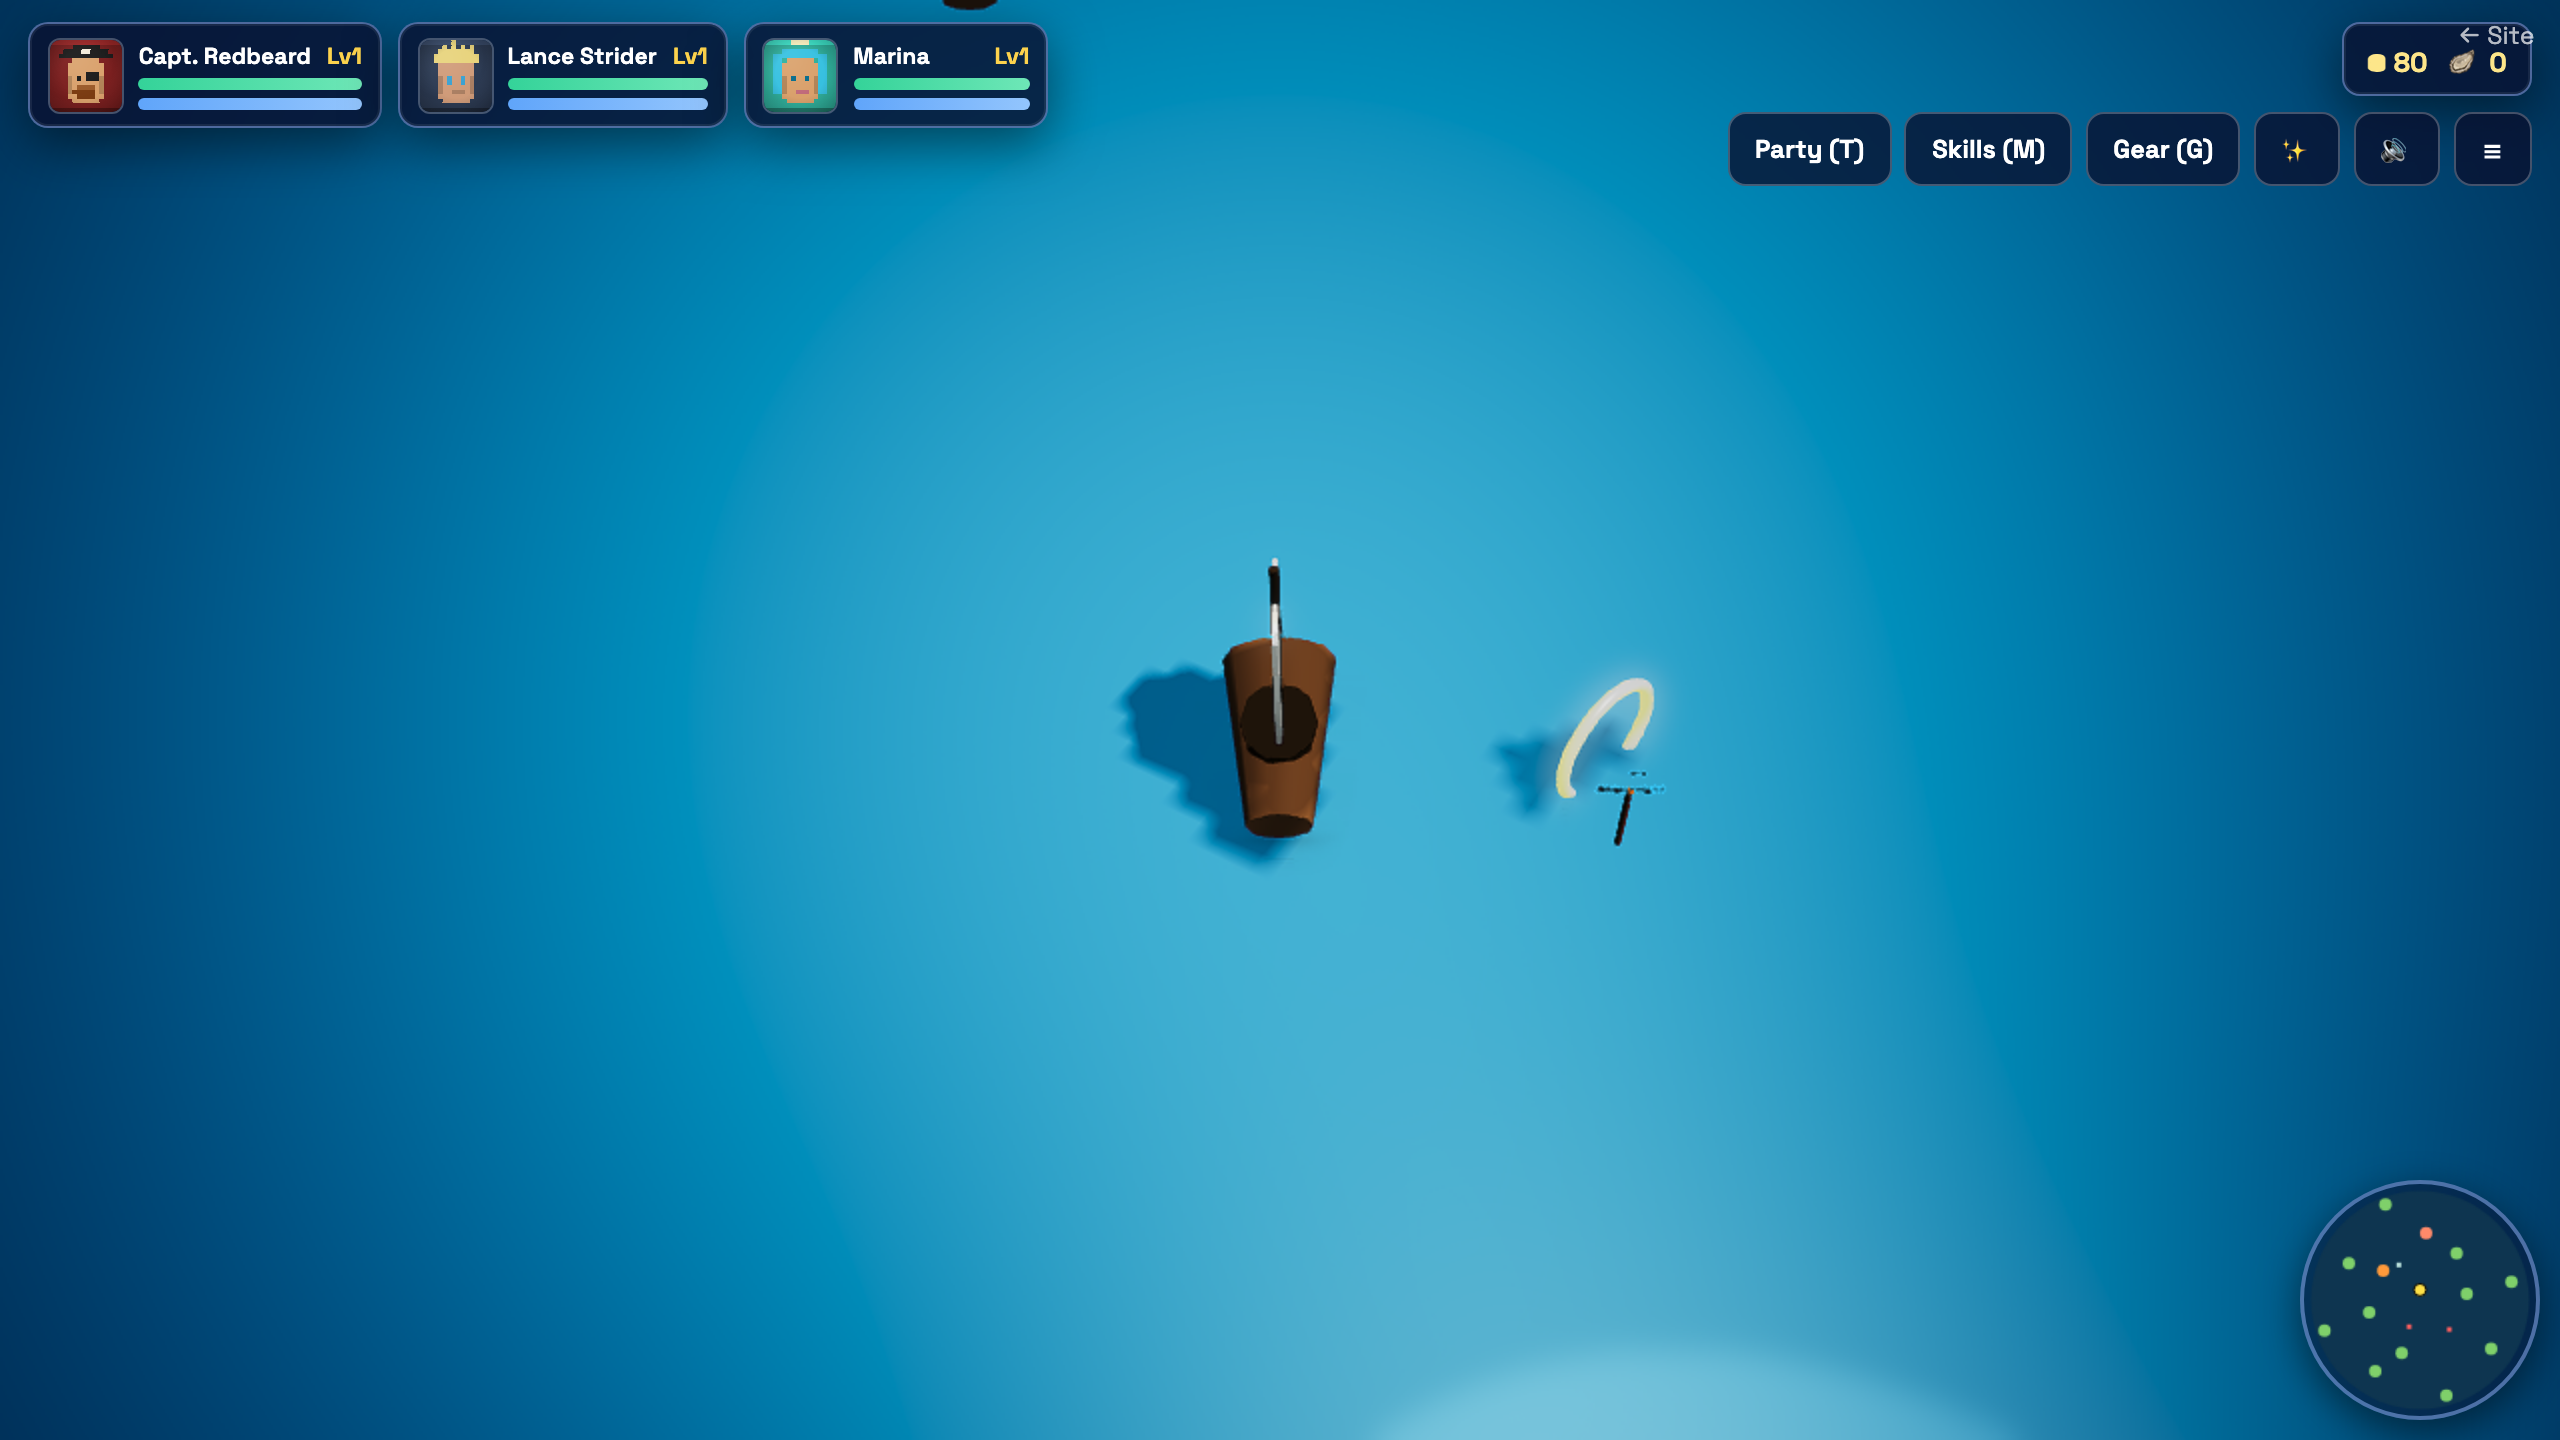
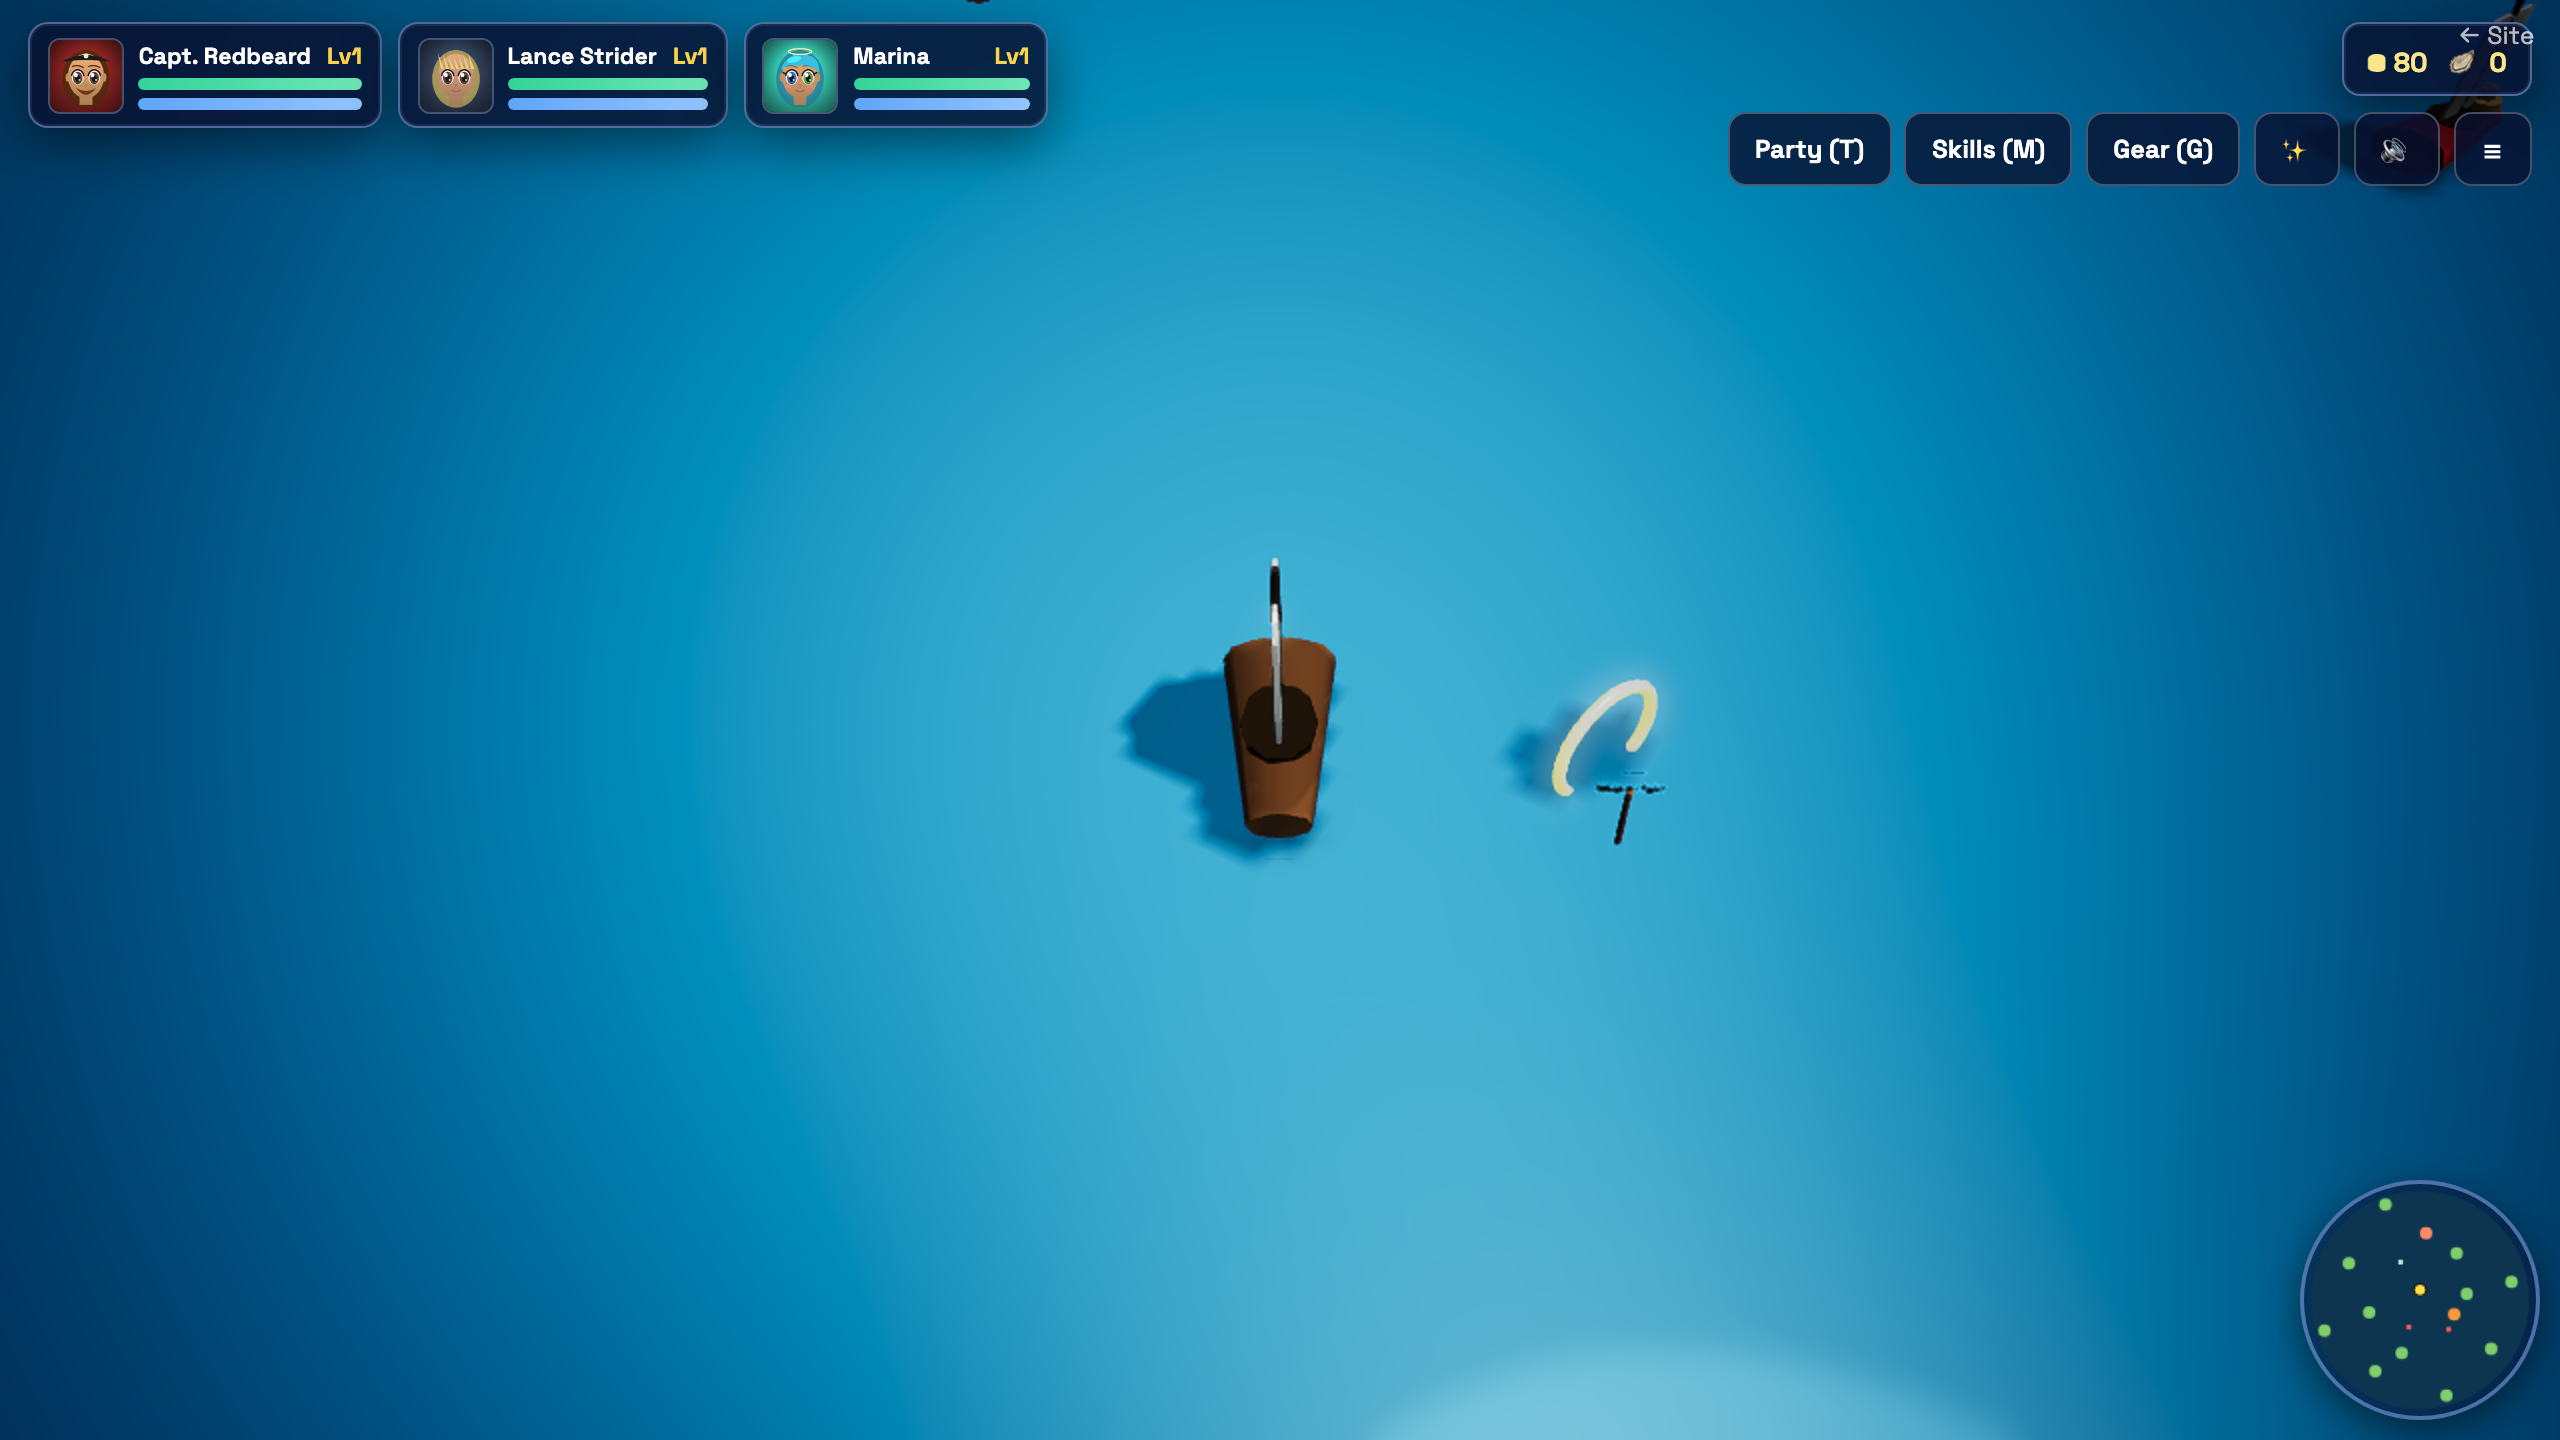
chore(capture): screenshots @ 2026-06-19T16:13:00.089Z (0 errors)

diff --git a/captures/latest/REPORT.md b/captures/latest/REPORT.md
@@ -1,9 +1,9 @@
-# Capture report — 2026-06-19T15:54:00.165Z
+# Capture report — 2026-06-19T16:13:00.089Z
 
 ## JS errors: 0
 _none — no runtime errors caught_
 
-## States captured (37)
+## States captured (38)
 - ✅ `01_overworld_tidehaven.png`
 - ✅ `02_overworld_paegina.png`
 - ✅ `03_overworld_duskmoor.png`
@@ -41,11 +41,12 @@ _none — no runtime errors caught_
 - ✅ `35_dungeon_npc.png`
 - ✅ `36_date_mermaid.png`
 - ✅ `37_summon_mermaid.png`
+- ✅ `38_portraits.png`
 
 ## Game-state snapshot
 ```json
 {
-  "gold": 86,
+  "gold": 94,
   "pearls": 0,
   "active": [
     "pirate",
